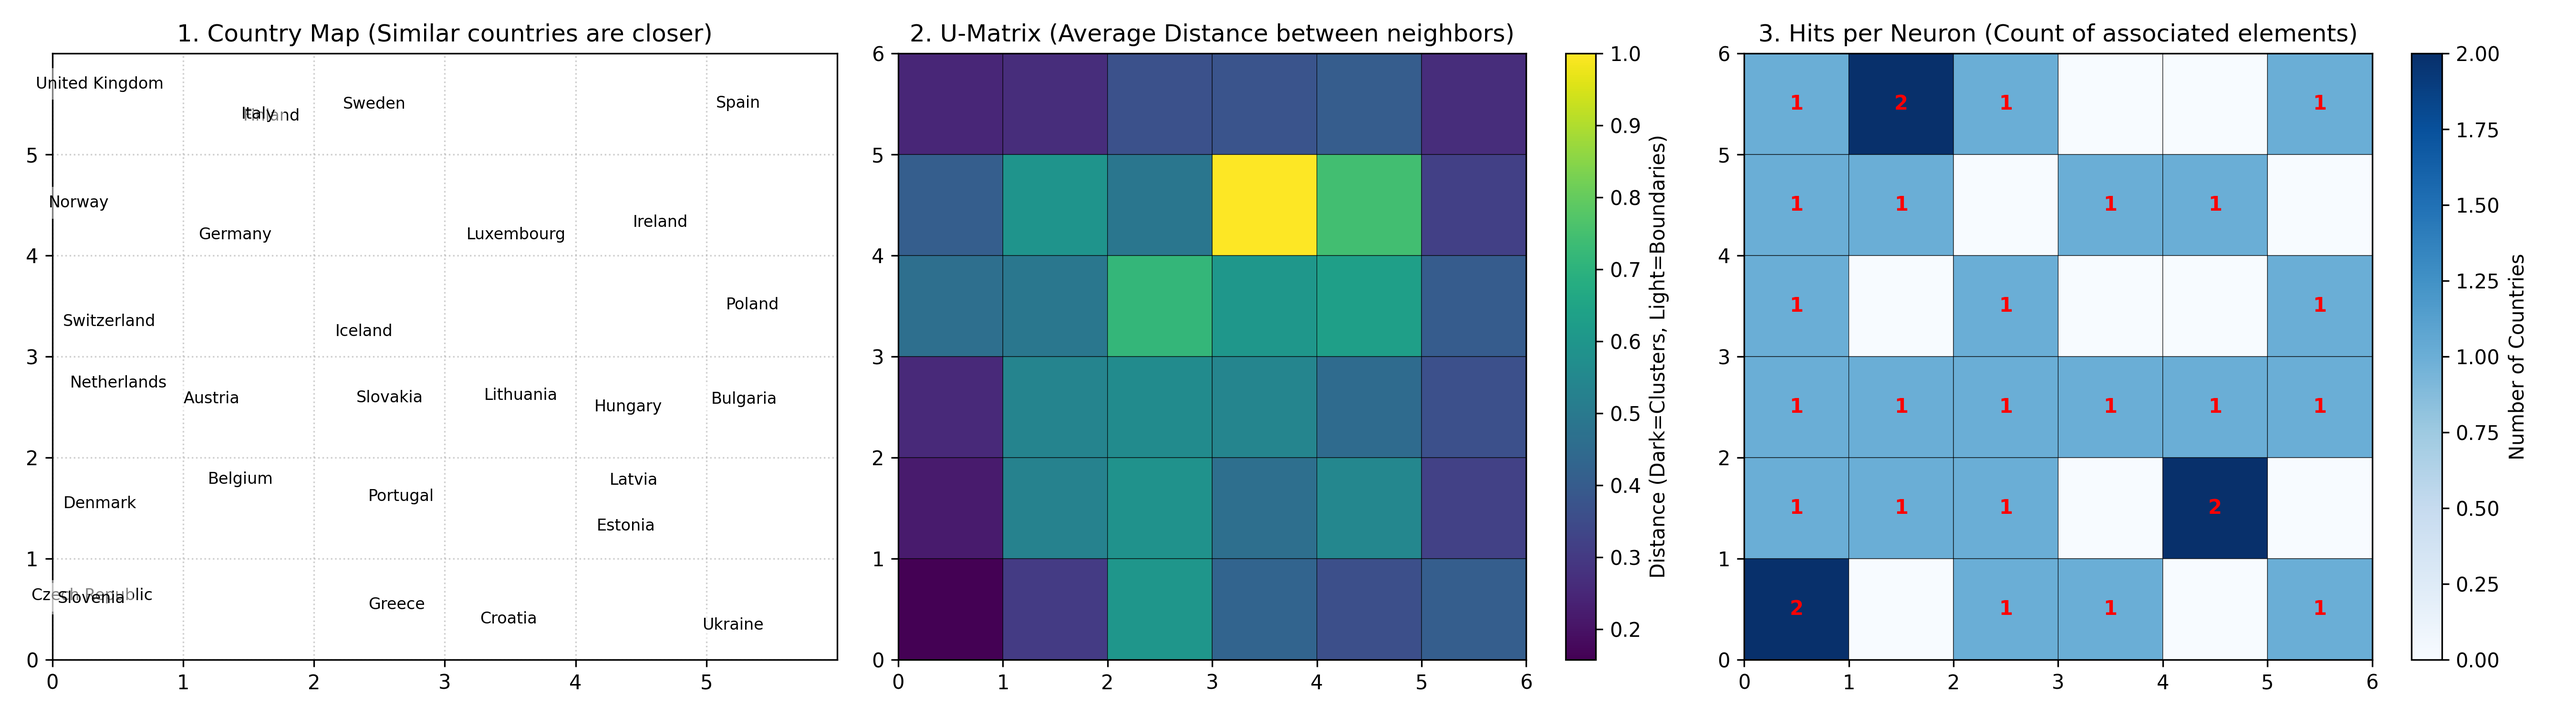
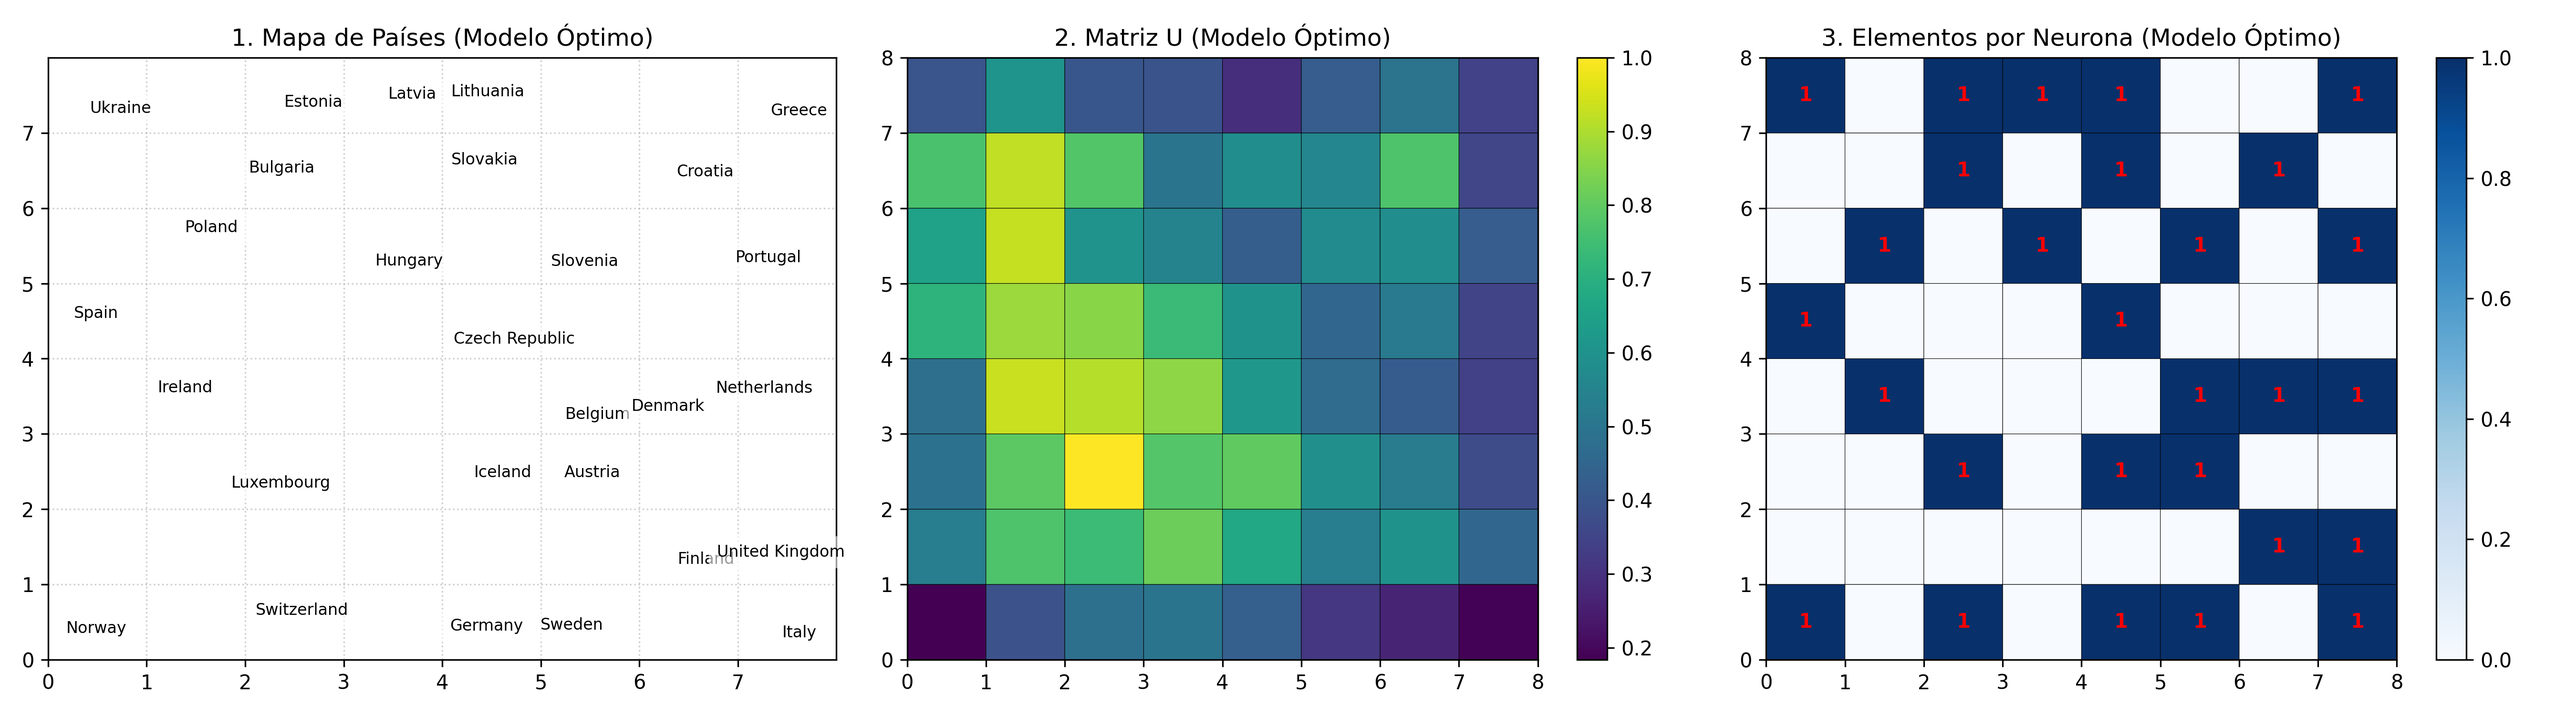
Added graphs

diff --git a/kohonen/kohonen.py b/kohonen/kohonen.py
@@ -3,114 +3,174 @@ import numpy as np
 import matplotlib.pyplot as plt
 from minisom import MiniSom
 from sklearn.preprocessing import StandardScaler
+import os
 
 # ==========================================
-# 1. Load and Prepare the Data
+# 1. Carga y Preparación de Datos
 # ==========================================
-# Make sure 'europe.csv' is in the same folder as your script
 try:
-    df = pd.read_csv('../data/europe.csv')
+    df = pd.read_csv('../data/europe.csv') # Asegúrate de que la ruta sea correcta
 except FileNotFoundError:
-    print("Error: Please ensure 'europe.csv' is in the current directory.")
+    print("Error: Por favor asegura que 'europe.csv' esté en la ruta correcta.")
     exit()
 
-# Extract the country names and the numeric features
 countries = df['Country'].values
-# Drop 'Country' to keep only numeric data (Area, GDP, Inflation, etc.)
 data = df.drop('Country', axis=1).values
 
-# Neural Networks require normalized/scaled data to work properly, 
-# otherwise large numbers (like GDP) will dominate small numbers (like Pop.growth).
 scaler = StandardScaler()
 data_scaled = scaler.fit_transform(data)
+num_paises = len(data_scaled)
 
 # ==========================================
-# 2. Implement the Kohonen Network
+# 2. Definición de Hiperparámetros (Escenarios)
 # ==========================================
-# We have 28 countries. A 5x5 grid gives us 25 neurons, 
-# or a 6x6 gives us 36 neurons, which is a good size to spread them out.
-grid_rows = 6
-grid_cols = 6
+# Aquí definimos explícitamente los valores para cada corrida comparativa
+escenarios = [
+    {"nombre": "Base",            "rows": 6, "cols": 6, "sigma": 1.0, "lr": 0.5, "iter": 2000},
+    {"nombre": "Grilla_Chica",    "rows": 4, "cols": 4, "sigma": 1.0, "lr": 0.5, "iter": 2000},
+    {"nombre": "Grilla_Grande",   "rows": 8, "cols": 8, "sigma": 1.2, "lr": 0.5, "iter": 2000},
+    {"nombre": "Bajo_Aprendizaje","rows": 6, "cols": 6, "sigma": 0.5, "lr": 0.1, "iter": 2000},
+    {"nombre": "Muchas_Epocas",   "rows": 6, "cols": 6, "sigma": 1.0, "lr": 0.5, "iter": 8000},
+    {"nombre": "Pocas_Epocas",    "rows": 6, "cols": 6, "sigma": 1.0, "lr": 0.5, "iter": 200}
+]
 
-# Initialize the Self-Organizing Map
-som = MiniSom(x=grid_rows, y=grid_cols, 
-              input_len=data_scaled.shape[1], 
-              sigma=1.0, 
-              learning_rate=0.5, 
-              random_seed=42) # Seed for reproducibility
+resultados = []
+modelos_entrenados = {} # Para guardar la información y regenerar el óptimo al final
 
-# Initialize weights and train the network
-som.random_weights_init(data_scaled)
-print("Training the Kohonen Network...")
-som.train_random(data_scaled, num_iteration=2000)
-print("Training complete!")
+print("Iniciando entrenamiento y generación de gráficos comparativos...\n")
 
 # ==========================================
-# 3. Generate Required Graphs
+# 3. Entrenamiento y Generación de Gráficos por Escenario
 # ==========================================
+for esc in escenarios:
+    r, c = esc["rows"], esc["cols"]
+    total_neuronas = r * c
+    epocas = round(esc["iter"] / num_paises, 1)
+    
+    # Inicializar y entrenar
+    som = MiniSom(x=r, y=c, input_len=data_scaled.shape[1], 
+                  sigma=esc["sigma"], learning_rate=esc["lr"], random_seed=42)
+    som.random_weights_init(data_scaled)
+    som.train_random(data_scaled, num_iteration=esc["iter"])
+    
+    # Calcular métricas
+    hit_map = som.activation_response(data_scaled)
+    neuronas_activas = np.count_nonzero(hit_map)
+    neuronas_muertas = total_neuronas - neuronas_activas
+    qe = som.quantization_error(data_scaled)
+    te = som.topographic_error(data_scaled)
+    
+    # Guardar métricas en la tabla de resultados
+    resultados.append({
+        "Escenario": esc["nombre"],
+        "Dimensiones": f"{r}x{c}",
+        "Radio (Sigma)": esc["sigma"],
+        "Learning Rate": esc["lr"],
+        "Iteraciones": esc["iter"],
+        "Neuronas Muertas": neuronas_muertas,
+        "Error Cuantización (QE)": round(qe, 4),
+        "Error Topológico (TE)": round(te, 4)
+    })
+    
+    # Guardar modelo en memoria
+    modelos_entrenados[esc["nombre"]] = (som, r, c)
 
-# Setup the figure for multiple subplots
-fig = plt.figure(figsize=(18, 5))
+    # --- GRAFICAR Y GUARDAR ESTE ESCENARIO PARA LA PPT ---
+    fig = plt.figure(figsize=(18, 5.5))
+    fig.suptitle(f"Escenario: {esc['nombre']} | Grilla: {r}x{c} | Sigma: {esc['sigma']} | LR: {esc['lr']} | Iteraciones: {esc['iter']}", fontsize=14, fontweight='bold')
 
-# --- Graph 1: Association of Countries (Map of Results) ---
-# "Asociar países que posean las mismas características... Realizar al menos un gráfico"
-ax1 = fig.add_subplot(1, 3, 1)
-ax1.set_title("1. Country Map (Similar countries are closer)")
+    # 1. Mapa de Países
+    ax1 = fig.add_subplot(1, 3, 1)
+    ax1.set_title("1. Mapa de Países")
+    ax1.pcolor(np.zeros((r, c)), cmap='Greys', edgecolors='k', alpha=0) 
+    for i, x in enumerate(data_scaled):
+        w = som.winner(x)
+        ax1.text(w[0] + 0.5 + np.random.uniform(-0.25, 0.25), w[1] + 0.5 + np.random.uniform(-0.25, 0.25), 
+                 countries[i], ha='center', va='center', fontsize=8, bbox=dict(facecolor='white', alpha=0.6, lw=0))
+    ax1.set_xlim([0, r]); ax1.set_ylim([0, c])
+    ax1.set_xticks(np.arange(r)); ax1.set_yticks(np.arange(c))
+    ax1.grid(True, linestyle=':', alpha=0.6)
 
-# Plot an empty grid
-ax1.pcolor(np.zeros((grid_rows, grid_cols)), cmap='Greys', edgecolors='k', alpha=0) 
+    # 2. Matriz U
+    ax2 = fig.add_subplot(1, 3, 2)
+    ax2.set_title("2. Matriz U (Fronteras y Clústeres)")
+    cax = ax2.pcolor(som.distance_map().T, cmap='viridis', edgecolors='k') 
+    fig.colorbar(cax, ax=ax2)
 
-# Place each country on its "winning" neuron
+    # 3. Aciertos por Neurona
+    ax3 = fig.add_subplot(1, 3, 3)
+    ax3.set_title("3. Países asociados por Neurona")
+    cax3 = ax3.pcolor(hit_map.T, cmap='Blues', edgecolors='k')
+    fig.colorbar(cax3, ax=ax3)
+    for i in range(r):
+        for j in range(c):
+            if hit_map[i, j] > 0:
+                ax3.text(i + 0.5, j + 0.5, str(int(hit_map[i, j])), ha='center', va='center', color='red', fontweight='bold')
+
+    plt.tight_layout(rect=[0, 0.03, 1, 0.95]) # Ajustar layout para el suptitle
+    
+    # Guardar imagen para la comparativa
+    nombre_archivo = f"Comparativa_{esc['nombre']}.png"
+    plt.savefig(nombre_archivo, dpi=300)
+    plt.close(fig) # Cerrar la figura para no saturar la memoria
+    print(f" -> Guardado gráfico comparativo: {nombre_archivo}")
+
+# ==========================================
+# 4. Cuadro Comparativo de Resultados
+# ==========================================
+df_comparativo = pd.DataFrame(resultados)
+print("\n" + "="*85)
+print("                       CUADRO COMPARATIVO DE HIPERPARÁMETROS")
+print("="*85)
+print(df_comparativo.to_string(index=False))
+print("="*85 + "\n")
+df_comparativo.to_csv("cuadro_comparativo_kohonen.csv", index=False)
+
+# ==========================================
+# 5. Generar el Gráfico Final (El Óptimo)
+# ==========================================
+# Definimos el modelo óptimo como aquel que minimiza el Error de Cuantización (QE)
+# (Puedes cambiar esta métrica si prefieres basarte en el menor Error Topológico)
+mejor_escenario_nombre = df_comparativo.sort_values(by="Error Cuantización (QE)").iloc[0]["Escenario"]
+print(f"*** El modelo óptimo seleccionado automáticamente es: '{mejor_escenario_nombre}' ***")
+
+# Recuperamos el modelo óptimo y sus dimensiones
+som_opt, r_opt, c_opt = modelos_entrenados[mejor_escenario_nombre]
+hit_map_opt = som_opt.activation_response(data_scaled)
+
+fig_opt = plt.figure(figsize=(18, 5))
+
+# 1. Mapa de Países Óptimo
+ax1_opt = fig_opt.add_subplot(1, 3, 1)
+ax1_opt.set_title("1. Mapa de Países (Modelo Óptimo)")
+ax1_opt.pcolor(np.zeros((r_opt, c_opt)), cmap='Greys', edgecolors='k', alpha=0) 
 for i, x in enumerate(data_scaled):
-    w = som.winner(x)  # Get the coordinates of the winning neuron for this country
-    # Add a bit of random noise (jitter) to coordinates so names don't perfectly overlap
-    jitter_x = np.random.uniform(-0.3, 0.3)
-    jitter_y = np.random.uniform(-0.3, 0.3)
-    ax1.text(w[0] + 0.5 + jitter_x, w[1] + 0.5 + jitter_y, countries[i], 
-             ha='center', va='center', fontsize=8, 
-             bbox=dict(facecolor='white', alpha=0.5, lw=0))
+    w = som_opt.winner(x)
+    ax1_opt.text(w[0] + 0.5 + np.random.uniform(-0.25, 0.25), w[1] + 0.5 + np.random.uniform(-0.25, 0.25), 
+             countries[i], ha='center', va='center', fontsize=8, bbox=dict(facecolor='white', alpha=0.6, lw=0))
+ax1_opt.set_xlim([0, r_opt]); ax1_opt.set_ylim([0, c_opt])
+ax1_opt.set_xticks(np.arange(r_opt)); ax1_opt.set_yticks(np.arange(c_opt))
+ax1_opt.grid(True, linestyle=':', alpha=0.6)
 
-ax1.set_xlim([0, grid_rows])
-ax1.set_ylim([0, grid_cols])
-ax1.set_xticks(np.arange(grid_rows))
-ax1.set_yticks(np.arange(grid_cols))
-ax1.grid(True, linestyle=':', alpha=0.6)
+# 2. Matriz U Óptima
+ax2_opt = fig_opt.add_subplot(1, 3, 2)
+ax2_opt.set_title("2. Matriz U (Modelo Óptimo)")
+cax_opt = ax2_opt.pcolor(som_opt.distance_map().T, cmap='viridis', edgecolors='k') 
+fig_opt.colorbar(cax_opt, ax=ax2_opt)
 
-# --- Graph 2: Distance Plot (U-Matrix) ---
-# "Realizar un gráfico que muestre las distancias promedio entre neuronas vecinas."
-ax2 = fig.add_subplot(1, 3, 2)
-ax2.set_title("2. U-Matrix (Average Distance between neighbors)")
-
-# distance_map() returns the average distance of a neuron to its neighbors
-u_matrix = som.distance_map()
-# Transpose the U-matrix to match the x-y orientation of the plot
-cax = ax2.pcolor(u_matrix.T, cmap='viridis', edgecolors='k') 
-fig.colorbar(cax, ax=ax2, label='Distance (Dark=Clusters, Light=Boundaries)')
-
-# --- Graph 3: Number of Elements per Neuron ---
-# "Analizar la cantidad de elementos que fueron asociados a cada neurona."
-ax3 = fig.add_subplot(1, 3, 3)
-ax3.set_title("3. Hits per Neuron (Count of associated elements)")
-
-# activation_response() counts how many times each neuron was the winner
-hit_map = som.activation_response(data_scaled)
-cax3 = ax3.pcolor(hit_map.T, cmap='Blues', edgecolors='k')
-fig.colorbar(cax3, ax=ax3, label='Number of Countries')
-
-# Add the exact number as text inside the boxes
-for i in range(grid_rows):
-    for j in range(grid_cols):
-        count = int(hit_map[i, j])
-        if count > 0:
-            ax3.text(i + 0.5, j + 0.5, str(count), 
-                     ha='center', va='center', color='red', fontweight='bold')
+# 3. Hits Óptimos
+ax3_opt = fig_opt.add_subplot(1, 3, 3)
+ax3_opt.set_title("3. Elementos por Neurona (Modelo Óptimo)")
+cax3_opt = ax3_opt.pcolor(hit_map_opt.T, cmap='Blues', edgecolors='k')
+fig_opt.colorbar(cax3_opt, ax=ax3_opt)
+for i in range(r_opt):
+    for j in range(c_opt):
+        if hit_map_opt[i, j] > 0:
+            ax3_opt.text(i + 0.5, j + 0.5, str(int(hit_map_opt[i, j])), ha='center', va='center', color='red', fontweight='bold')
 
 plt.tight_layout()
-plt.savefig("Kohonen_Network_Results.png", dpi=300)  # Save the figure
-# Print text analysis for the final")
 
-# Print text analysis for the final point
-print("\n--- Analysis of Elements per Neuron ---")
-print(f"Total number of neurons: {grid_rows * grid_cols}")
-print(f"Number of neurons with at least 1 country associated: {np.count_nonzero(hit_map)}")
-print(f"Maximum number of countries in a single neuron: {int(np.max(hit_map))}")
+# Guardamos específicamente con el nombre que solicitaste
+plt.savefig("Kohonen_Network_Results.png", dpi=300)
+print(" -> Gráfico óptimo guardado como: 'Kohonen_Network_Results.png'")
+# plt.show() # Descomentar si deseas que se abra la ventana del gráfico al terminar
